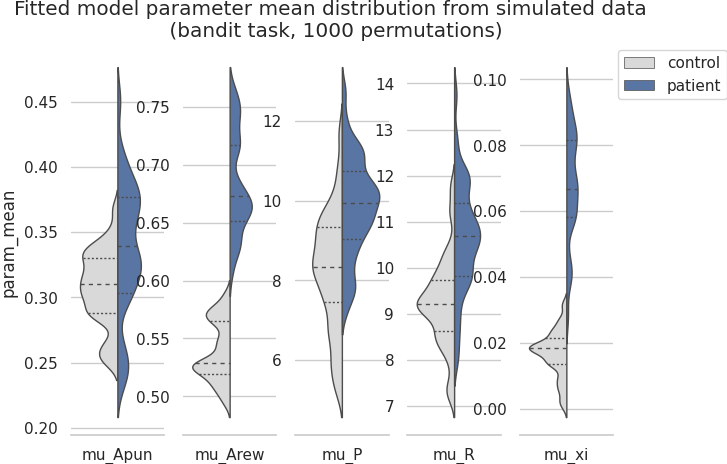
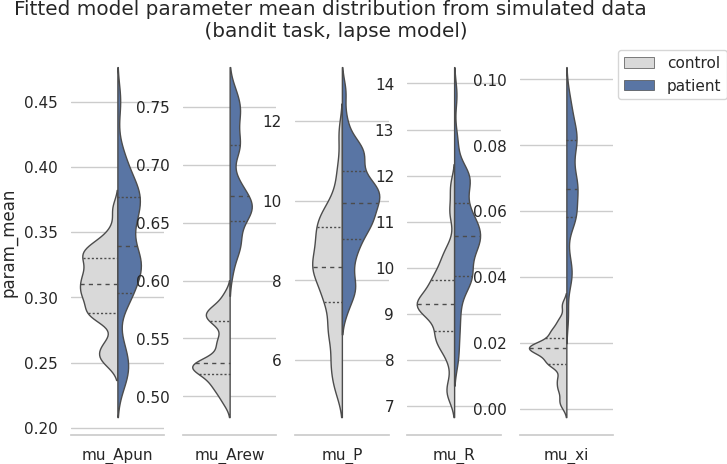
replot

Changed region(s): [[0.2421, 0.0302, 0.696, 0.0905]]

diff --git a/compare_hdi.py b/compare_hdi.py
@@ -228,7 +228,10 @@ def plot_violin_params(csv_params, model_name, n_perm):
         ax[n].get_legend().remove()
         g.set(xlabel=None)
     plt.legend(bbox_to_anchor=(1.05, 1), loc=2, borderaxespad=0.)
-    plt.suptitle(f'Fitted model parameter mean distribution from simulated data \n ({model_name} task, {n_perm} permutations)')
+    if model_name == 'bandit':
+        plt.suptitle(f'Fitted model parameter mean distribution from simulated data \n ({model_name} task, lapse model)')
+    else:
+        plt.suptitle(f'Fitted model parameter mean distribution from simulated data \n ({model_name} task, perceptual+value generalisation model)')
     # save fig
     save_dir = './figs/'+model_name+'/'
     if not os.path.isdir(save_dir):
@@ -281,5 +284,5 @@ if __name__ == "__main__":
         print('model must be bandit or generalise.')
     n_perm = 1000
     # comp_hdi_mean(model_name, param_ls, sort=False, draw_idx=30, draws=n_perm)
-    # plot_violin_params(f'./figs/{model_name}/params.csv', model_name, n_perm=n_perm)
-    plot_hdi_permutations(f'./figs/{model_name}/params.csv', model_name, n_perm)
+    plot_violin_params(f'./figs/{model_name}/params.csv', model_name, n_perm=n_perm)
+    # plot_hdi_permutations(f'./figs/{model_name}/params.csv', model_name, n_perm)
